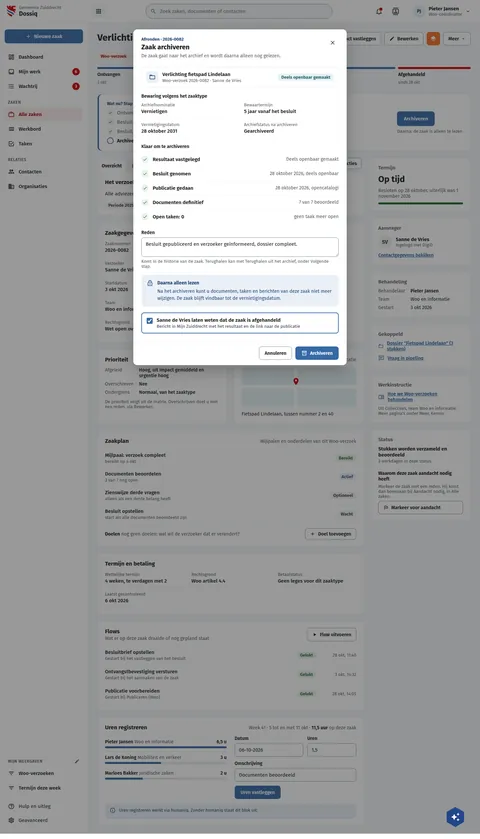
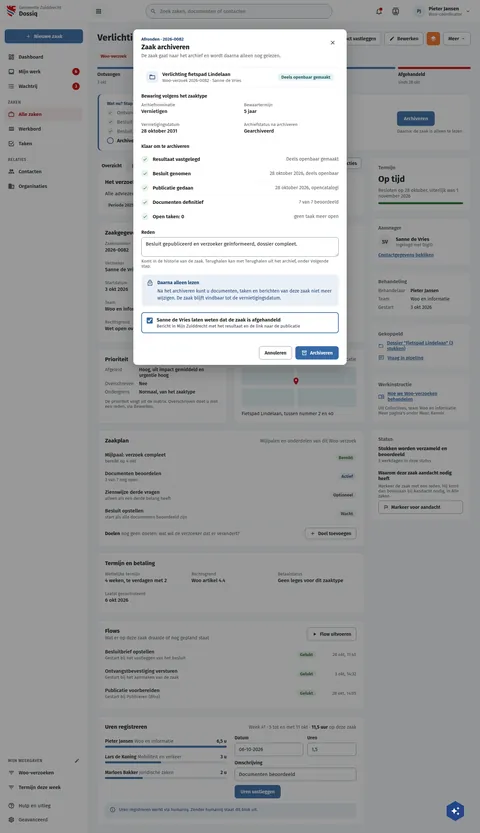
fix(screens): DqArchiveren's Bewaartermijn reads the period only
Assisted-by: ClaudeCode:claude-opus-5-5

diff --git a/preview/screens/boards/DqArchiveren.html b/preview/screens/boards/DqArchiveren.html
@@ -330,7 +330,7 @@ a{color:var(--sc-primary, #3669a5)}a:hover{color:var(--sc-primary-deep, #234a78)
         </div>
         <section aria-labelledby="ar-bew" style="display: flex; flex-direction: column; gap: 10px">
           <h3 id="ar-bew" style="margin: 0; font-size: 14px; font-weight: 600">Bewaring volgens het zaaktype</h3>
-          <dl style="margin: 0; display: grid; grid-template-columns: repeat(auto-fit, minmax(200px, 1fr)); gap: 12px 24px"><div style="display: flex; flex-direction: column; gap: 3px; padding-bottom: 10px; border-bottom: 1px solid var(--sc-work-soft, #eef0f3)"><dt style="font-size: 13px; color: var(--sc-work-muted, #5e6168)">Archiefnominatie</dt><dd style="margin: 0; font-size: 15px; font-weight: 500">Vernietigen</dd></div><div style="display: flex; flex-direction: column; gap: 3px; padding-bottom: 10px; border-bottom: 1px solid var(--sc-work-soft, #eef0f3)"><dt style="font-size: 13px; color: var(--sc-work-muted, #5e6168)">Bewaartermijn</dt><dd style="margin: 0; font-size: 15px; font-weight: 500">5 jaar vanaf het besluit</dd></div><div style="display: flex; flex-direction: column; gap: 3px; padding-bottom: 10px; border-bottom: 1px solid var(--sc-work-soft, #eef0f3)"><dt style="font-size: 13px; color: var(--sc-work-muted, #5e6168)">Vernietigingsdatum</dt><dd style="margin: 0; font-size: 15px; font-weight: 500">28 oktober 2031</dd></div><div style="display: flex; flex-direction: column; gap: 3px; padding-bottom: 10px; border-bottom: 1px solid var(--sc-work-soft, #eef0f3)"><dt style="font-size: 13px; color: var(--sc-work-muted, #5e6168)">Archiefstatus na archiveren</dt><dd style="margin: 0; font-size: 15px; font-weight: 500">Gearchiveerd</dd></div></dl>
+          <dl style="margin: 0; display: grid; grid-template-columns: repeat(auto-fit, minmax(200px, 1fr)); gap: 12px 24px"><div style="display: flex; flex-direction: column; gap: 3px; padding-bottom: 10px; border-bottom: 1px solid var(--sc-work-soft, #eef0f3)"><dt style="font-size: 13px; color: var(--sc-work-muted, #5e6168)">Archiefnominatie</dt><dd style="margin: 0; font-size: 15px; font-weight: 500">Vernietigen</dd></div><div style="display: flex; flex-direction: column; gap: 3px; padding-bottom: 10px; border-bottom: 1px solid var(--sc-work-soft, #eef0f3)"><dt style="font-size: 13px; color: var(--sc-work-muted, #5e6168)">Bewaartermijn</dt><dd style="margin: 0; font-size: 15px; font-weight: 500">5 jaar</dd></div><div style="display: flex; flex-direction: column; gap: 3px; padding-bottom: 10px; border-bottom: 1px solid var(--sc-work-soft, #eef0f3)"><dt style="font-size: 13px; color: var(--sc-work-muted, #5e6168)">Vernietigingsdatum</dt><dd style="margin: 0; font-size: 15px; font-weight: 500">28 oktober 2031</dd></div><div style="display: flex; flex-direction: column; gap: 3px; padding-bottom: 10px; border-bottom: 1px solid var(--sc-work-soft, #eef0f3)"><dt style="font-size: 13px; color: var(--sc-work-muted, #5e6168)">Archiefstatus na archiveren</dt><dd style="margin: 0; font-size: 15px; font-weight: 500">Gearchiveerd</dd></div></dl>
         </section>
         <section aria-labelledby="ar-chk" style="display: flex; flex-direction: column">
           <h3 id="ar-chk" style="margin: 0 0 8px; font-size: 14px; font-weight: 600">Klaar om te archiveren</h3>

diff --git a/screens-src/zuiddrecht/DqArchiveren.dc.html b/screens-src/zuiddrecht/DqArchiveren.dc.html
@@ -180,7 +180,7 @@ a{color:#3669a5}a:hover{color:#234a78}
         </div>
         <section aria-labelledby="ar-bew" style="display: flex; flex-direction: column; gap: 10px">
           <h3 id="ar-bew" style="margin: 0; font-size: 14px; font-weight: 600">Bewaring volgens het zaaktype</h3>
-          <dl style="margin: 0; display: grid; grid-template-columns: repeat(auto-fit, minmax(200px, 1fr)); gap: 12px 24px"><div style="display: flex; flex-direction: column; gap: 3px; padding-bottom: 10px; border-bottom: 1px solid #eef0f3"><dt style="font-size: 13px; color: #5e6168">Archiefnominatie</dt><dd style="margin: 0; font-size: 15px; font-weight: 500">Vernietigen</dd></div><div style="display: flex; flex-direction: column; gap: 3px; padding-bottom: 10px; border-bottom: 1px solid #eef0f3"><dt style="font-size: 13px; color: #5e6168">Bewaartermijn</dt><dd style="margin: 0; font-size: 15px; font-weight: 500">5 jaar vanaf het besluit</dd></div><div style="display: flex; flex-direction: column; gap: 3px; padding-bottom: 10px; border-bottom: 1px solid #eef0f3"><dt style="font-size: 13px; color: #5e6168">Vernietigingsdatum</dt><dd style="margin: 0; font-size: 15px; font-weight: 500">28 oktober 2031</dd></div><div style="display: flex; flex-direction: column; gap: 3px; padding-bottom: 10px; border-bottom: 1px solid #eef0f3"><dt style="font-size: 13px; color: #5e6168">Archiefstatus na archiveren</dt><dd style="margin: 0; font-size: 15px; font-weight: 500">Gearchiveerd</dd></div></dl>
+          <dl style="margin: 0; display: grid; grid-template-columns: repeat(auto-fit, minmax(200px, 1fr)); gap: 12px 24px"><div style="display: flex; flex-direction: column; gap: 3px; padding-bottom: 10px; border-bottom: 1px solid #eef0f3"><dt style="font-size: 13px; color: #5e6168">Archiefnominatie</dt><dd style="margin: 0; font-size: 15px; font-weight: 500">Vernietigen</dd></div><div style="display: flex; flex-direction: column; gap: 3px; padding-bottom: 10px; border-bottom: 1px solid #eef0f3"><dt style="font-size: 13px; color: #5e6168">Bewaartermijn</dt><dd style="margin: 0; font-size: 15px; font-weight: 500">5 jaar</dd></div><div style="display: flex; flex-direction: column; gap: 3px; padding-bottom: 10px; border-bottom: 1px solid #eef0f3"><dt style="font-size: 13px; color: #5e6168">Vernietigingsdatum</dt><dd style="margin: 0; font-size: 15px; font-weight: 500">28 oktober 2031</dd></div><div style="display: flex; flex-direction: column; gap: 3px; padding-bottom: 10px; border-bottom: 1px solid #eef0f3"><dt style="font-size: 13px; color: #5e6168">Archiefstatus na archiveren</dt><dd style="margin: 0; font-size: 15px; font-weight: 500">Gearchiveerd</dd></div></dl>
         </section>
         <section aria-labelledby="ar-chk" style="display: flex; flex-direction: column">
           <h3 id="ar-chk" style="margin: 0 0 8px; font-size: 14px; font-weight: 600">Klaar om te archiveren</h3>
